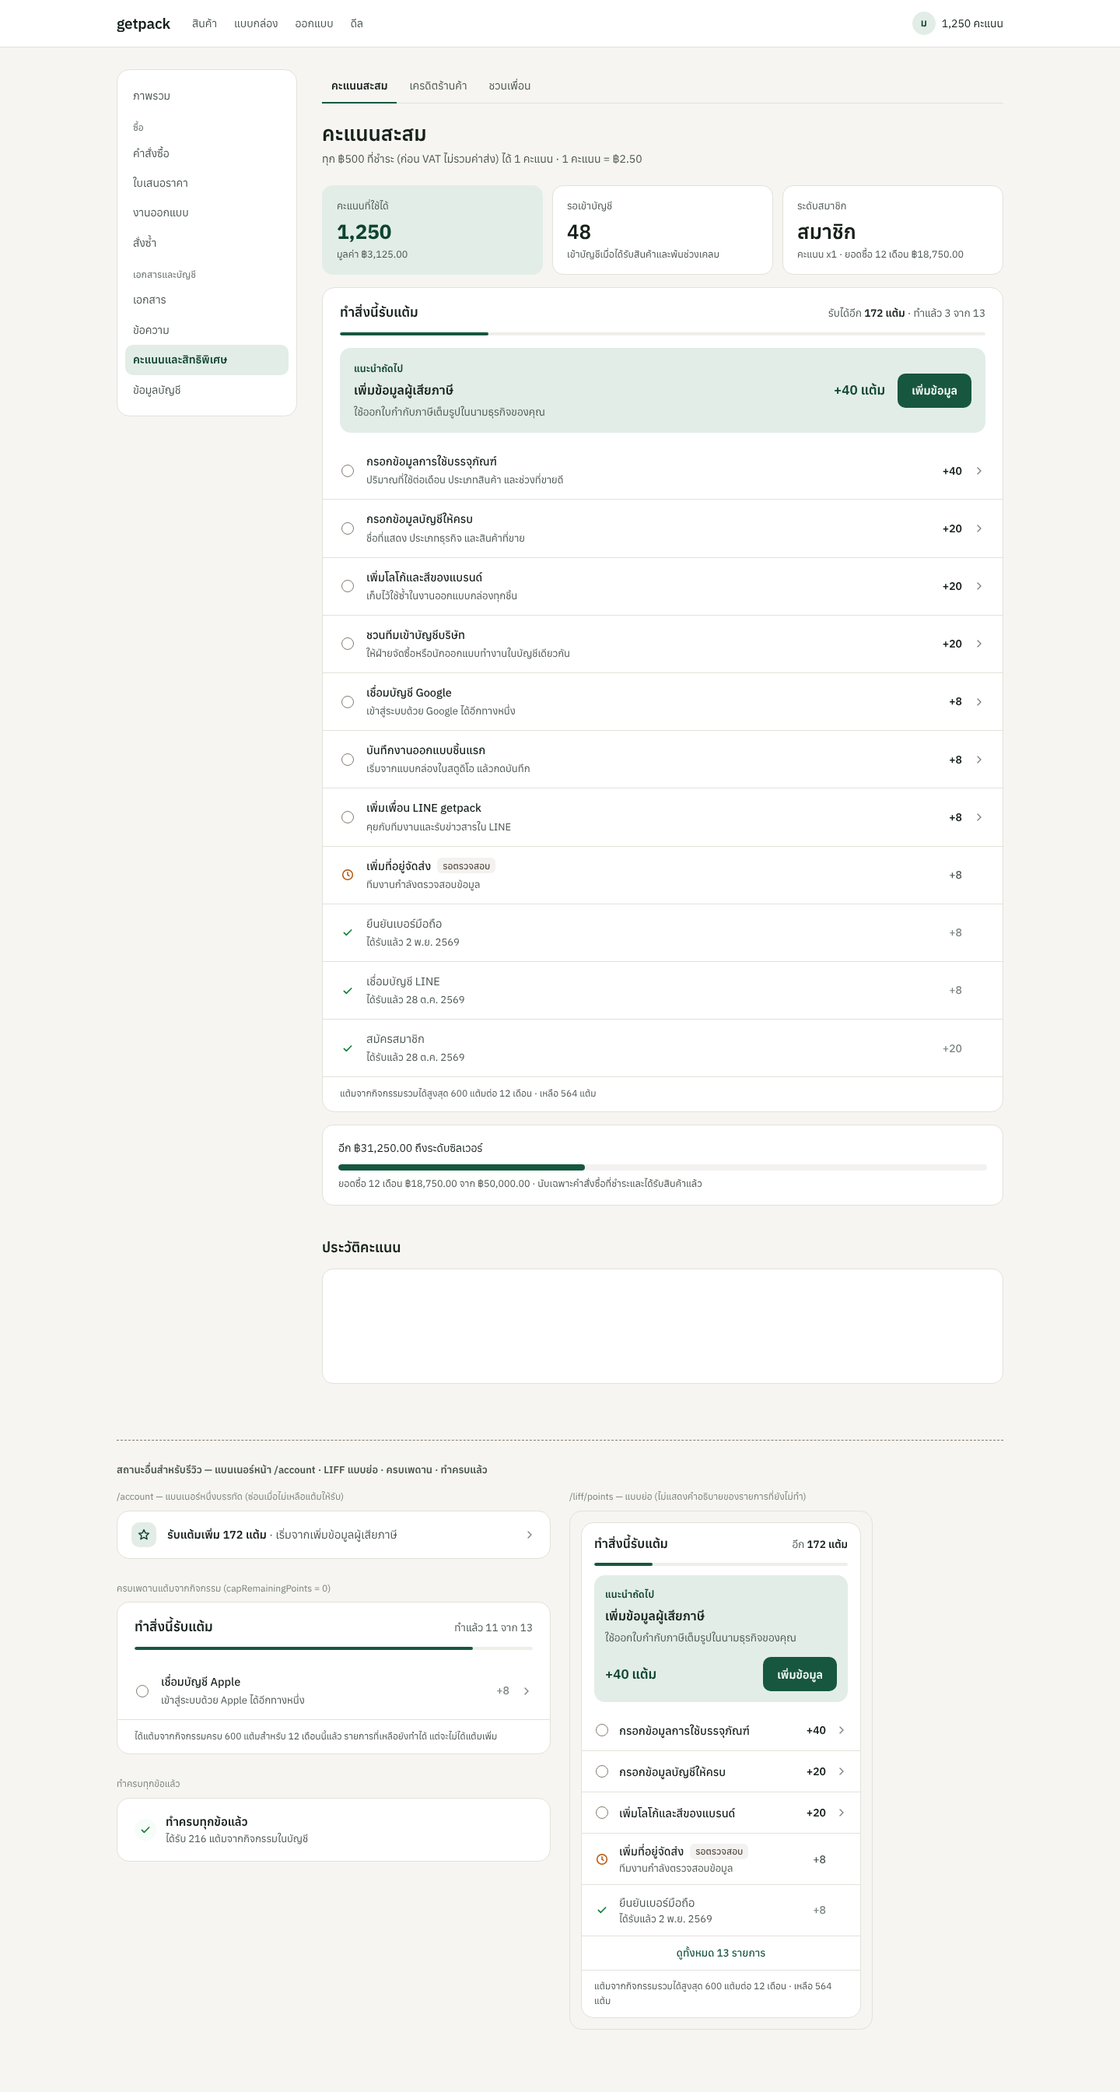
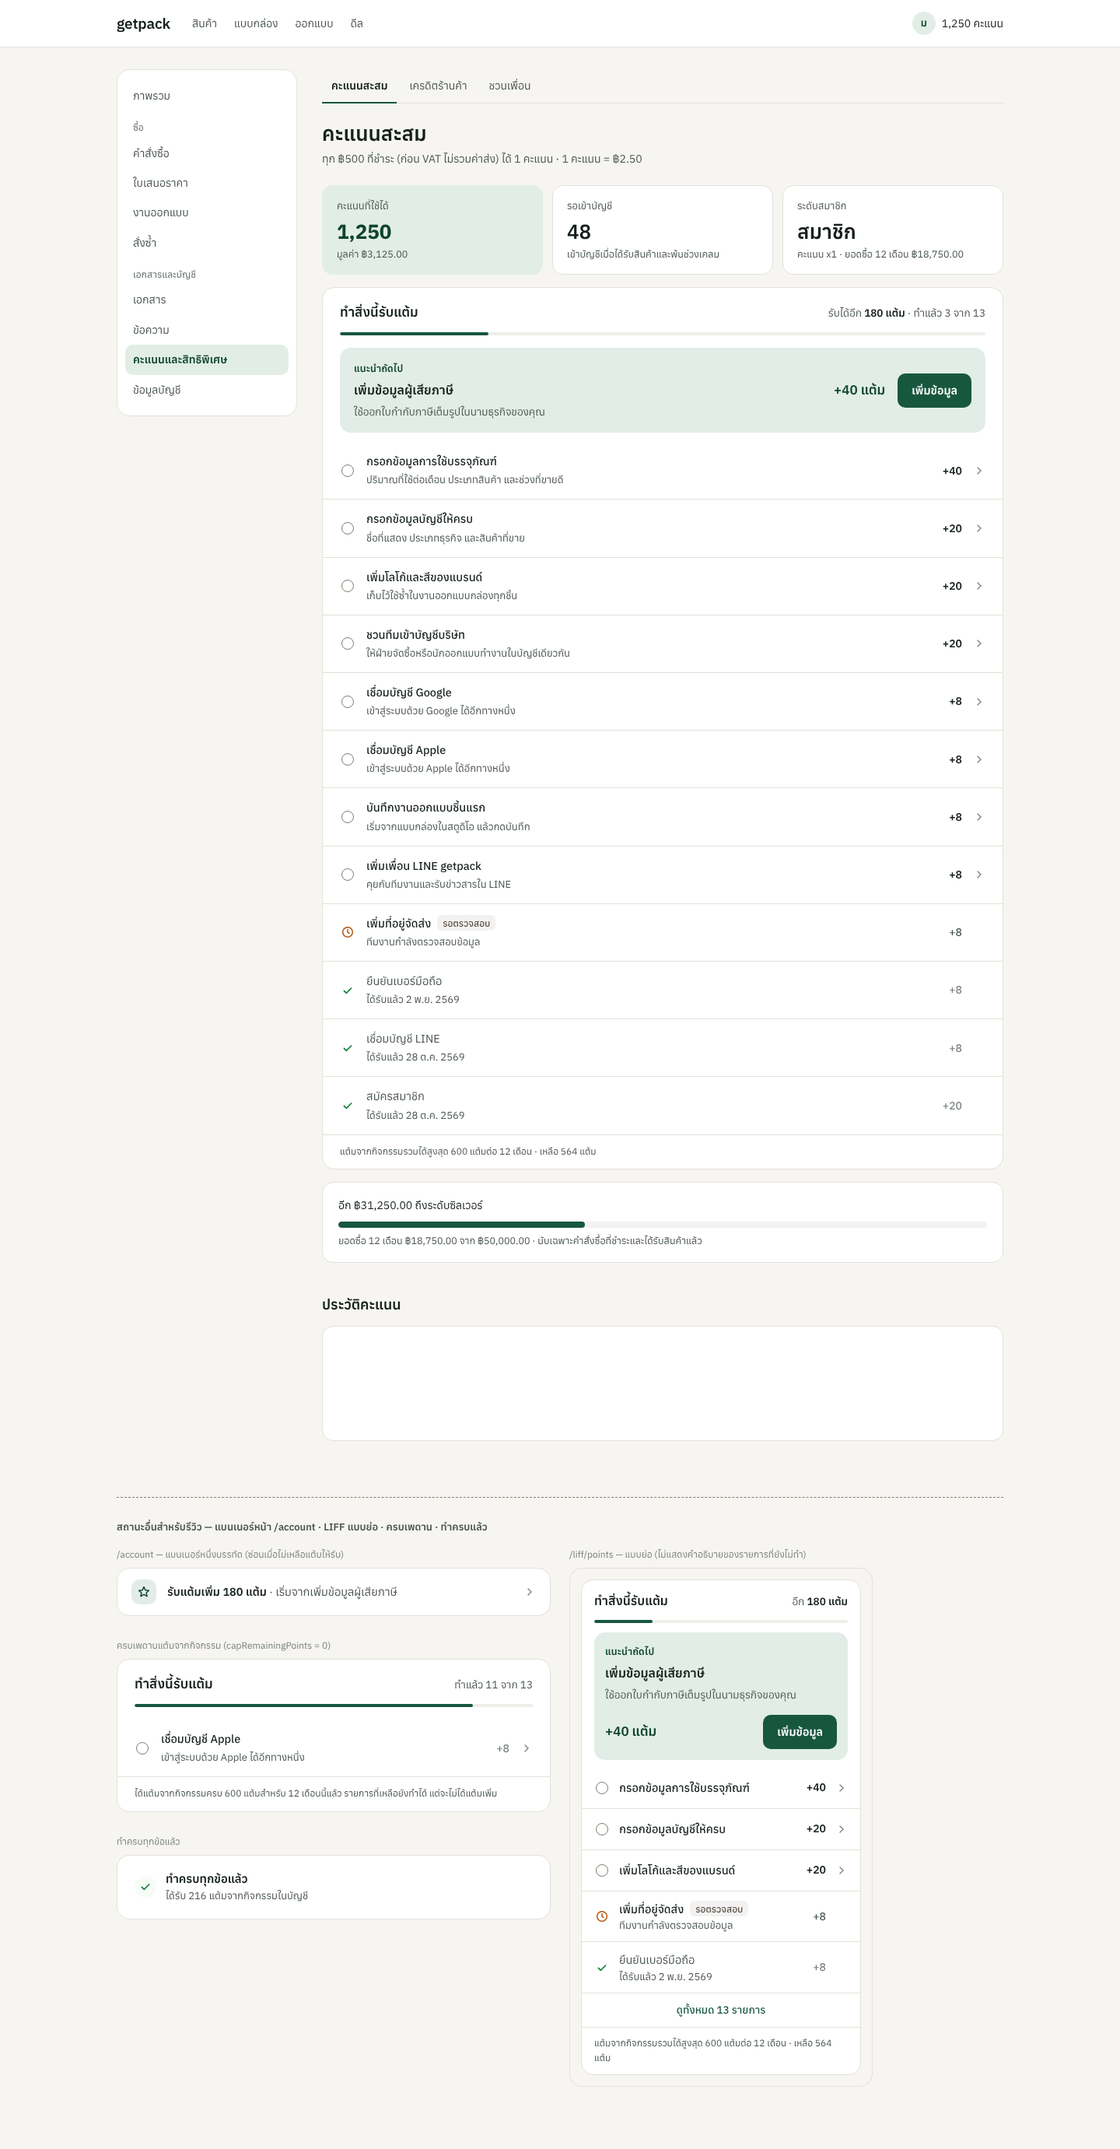
docs(loyalty): web P1 notes, routes map, gate results and progress entry
WEB-P1-NOTES.md records what was built, the task routes, contract assumptions, the gates run here and the commands for the Mac; the earn-checklist prototype gains the missing Apple row (13 tasks, 180 points).

diff --git a/docs/design/loyalty-earn-expansion/prototypes/p1-earn-checklist.html b/docs/design/loyalty-earn-expansion/prototypes/p1-earn-checklist.html
@@ -198,7 +198,7 @@ a.task:hover .chev{color:var(--fg)}
       <div class="earn-hd">
         <div class="row">
           <h2 id="earn-title">ทำสิ่งนี้รับแต้ม</h2>
-          <p class="meta num" style="margin:0">รับได้อีก <b>172 แต้ม</b> · ทำแล้ว 3 จาก 13</p>
+          <p class="meta num" style="margin:0">รับได้อีก <b>180 แต้ม</b> · ทำแล้ว 3 จาก 13</p>
         </div>
         <div class="bar" role="progressbar" aria-label="ทำแล้ว 3 จาก 13" aria-valuemin="0" aria-valuemax="13" aria-valuenow="3"><i style="width:23%"></i></div>
       </div>
@@ -238,6 +238,12 @@ a.task:hover .chev{color:var(--fg)}
         <li><a class="task" href="#">
           <span class="mark todo" aria-hidden="true"></span>
           <span><span class="t">เชื่อมบัญชี Google<span class="sr">, ยังไม่ได้ทำ</span></span><span class="d">เข้าสู่ระบบด้วย Google ได้อีกทางหนึ่ง</span></span>
+          <span class="p num">+8</span>
+          <svg class="chev" width="16" height="16" viewBox="0 0 24 24" fill="none" stroke="currentColor" stroke-width="2" stroke-linecap="round" aria-hidden="true"><path d="m9 6 6 6-6 6"/></svg>
+        </a></li>
+        <li><a class="task" href="#">
+          <span class="mark todo" aria-hidden="true"></span>
+          <span><span class="t">เชื่อมบัญชี Apple<span class="sr">, ยังไม่ได้ทำ</span></span><span class="d">เข้าสู่ระบบด้วย Apple ได้อีกทางหนึ่ง</span></span>
           <span class="p num">+8</span>
           <svg class="chev" width="16" height="16" viewBox="0 0 24 24" fill="none" stroke="currentColor" stroke-width="2" stroke-linecap="round" aria-hidden="true"><path d="m9 6 6 6-6 6"/></svg>
         </a></li>
@@ -298,7 +304,7 @@ a.task:hover .chev{color:var(--fg)}
       <p class="cap-k">/account — แบนเนอร์หนึ่งบรรทัด (ซ่อนเมื่อไม่เหลือแต้มให้รับ)</p>
       <a class="banner" href="#earn">
         <span class="ic"><svg width="18" height="18" viewBox="0 0 24 24" fill="none" stroke="currentColor" stroke-width="2" stroke-linecap="round" stroke-linejoin="round" aria-hidden="true"><path d="M12 3.5 14.6 9l5.9.6-4.4 4 1.3 5.9L12 16.5 6.6 19.5 7.9 13.6l-4.4-4L9.4 9z"/></svg></span>
-        <span class="tx"><b class="num">รับแต้มเพิ่ม 172 แต้ม</b> <span>· เริ่มจากเพิ่มข้อมูลผู้เสียภาษี</span></span>
+        <span class="tx"><b class="num">รับแต้มเพิ่ม 180 แต้ม</b> <span>· เริ่มจากเพิ่มข้อมูลผู้เสียภาษี</span></span>
         <svg class="chev" width="16" height="16" viewBox="0 0 24 24" fill="none" stroke="currentColor" stroke-width="2" stroke-linecap="round" aria-hidden="true"><path d="m9 6 6 6-6 6"/></svg>
       </a>
 
@@ -333,7 +339,7 @@ a.task:hover .chev{color:var(--fg)}
       <div class="liff">
         <section class="earn compact" style="margin-top:0" aria-label="ทำสิ่งนี้รับแต้ม (LINE)">
           <div class="earn-hd">
-            <div class="row"><h2>ทำสิ่งนี้รับแต้ม</h2><p class="meta num" style="margin:0">อีก <b>172 แต้ม</b></p></div>
+            <div class="row"><h2>ทำสิ่งนี้รับแต้ม</h2><p class="meta num" style="margin:0">อีก <b>180 แต้ม</b></p></div>
             <div class="bar"><i style="width:23%"></i></div>
           </div>
           <div class="next">

diff --git a/docs/design/loyalty-earn-expansion/WEB-P1-NOTES.md b/docs/design/loyalty-earn-expansion/WEB-P1-NOTES.md
@@ -1,0 +1,117 @@
+# Web P1 notes — earn checklist and packaging profile
+
+Branch `feat/loyalty-p1-activity-rewards` (getpack-web). Contract: `API-CHANGES-P1.md`. Design: `DESIGN-NOTES.md`,
+`prototypes/p1-*.html`, `screenshots/P1/`. Nothing pushed or merged.
+
+## 1. What was built
+
+| Piece | File |
+|---|---|
+| Contract requests (zod) for `GET /v1/store/loyalty/tasks`, `GET`/`PUT /v1/store/loyalty/packaging-profile` | `src/lib/api/requests/store-loyalty.ts` (+ registry, `awaiting-triage.ts`, rows in `docs/contract-requests.md`, `docs/contract-requests.openapi.json`) |
+| Stateful MSW (one held, three done; PUT completes `packaging_profile`) | `mocks/store/loyalty.ts`, fixtures `mocks/store/loyalty-fixtures.ts` |
+| Server reads | `getLoyaltyTasks()` (null on failure), `getPackagingProfile()` in `src/features/customer/account/api.server.ts` |
+| Task routes, display split, toast diff | `src/features/customer/account/earn-tasks.ts` |
+| `EarnChecklist` (query + toast) / `EarnChecklistView` (full, compact) | `src/features/customer/account/EarnChecklist.tsx` |
+| `/account` banner | `src/features/customer/account/EarnBanner.tsx` |
+| Packaging-profile form + rules | `PackagingProfileForm.tsx`, `packaging-profile.ts`, page `src/app/[locale]/(storefront)/account/packaging-profile/page.tsx` |
+| New `src/ui` primitive (multi-choice tiles) | `src/ui/components/CheckboxTiles.tsx` |
+| Wiring | `/account/points` (between SummaryCards and TierProgress, `#earn`), `/account` (after "ต้องทำตอนนี้"), `/liff/points` (compact, above the latest movements), new tab "การใช้บรรจุภัณฑ์" under ข้อมูลบัญชี (`sections.ts`) |
+| Copy | `account.points.earn.*`, `account.points.tasks.<code>.title/description/action`, `account.home.earnBanner*`, `account.tabs.packagingProfile`, `account.packagingProfile.*` (th + en) |
+| Stories / tests | `EarnChecklist.stories.tsx` (Held, Fresh, CapReached, AllDone, Loading, Failed, Compact, AccountBanner); `earn-tasks.test.ts`, `EarnChecklist.test.tsx`, `PackagingProfileForm.test.tsx` |
+
+### Routes map (task → page)
+
+| Code | Route | Note |
+|---|---|---|
+| `signup` | `/account` | always done in practice |
+| `line_link`, `google_link`, `apple_link` | `/account/notifications#linked-accounts` | the linked sign-in methods panel |
+| `phone_verified` | `/account/notifications#linked-accounts` | **closest page**: no separate phone-verification page; the phone identity lives in that panel |
+| `profile_completed` | `/account/addresses` | **closest page**: there is no profile-edit page (display name, business type, product category) yet |
+| `tax_profile` | `/account/addresses#book-tax` | |
+| `address` | `/account/addresses#book-addresses` | |
+| `brand_kit` | `/business/assets` | **closest page**: company brand assets; a customer without a company is redirected by `requireMember` |
+| `first_design` | `/studio/new?step=start` (`studioHref()`) | |
+| `team_invite` | `/business/members` | |
+| `packaging_profile` | `/account/packaging-profile` | new |
+| `line_oa_friend` | `https://line.me/R/ti/p/<id>` (new tab) | id = `NEXT_PUBLIC_LINE_OA_ID`, else `store.support.channels.lineOaId`; none → `/help/chat` |
+
+## 2. Contract assumptions
+
+- Built against API-CHANGES-P1 exactly; until the getpack-api release is adopted the three operations run through
+  the repo's contract-request layer (the rule in CLAUDE.md: no hand-written types beside `schema.d.ts`). After
+  `pnpm gen:api --adopt --tag <release>`, `registry.test.ts` names the three entries: delete `store-loyalty.ts`'s
+  requests and the mock, call `serverApi`/`browserApi`, keep `LoyaltyTasks`/`PackagingProfile` as `Schemas[...]`.
+- The web never re-sorts: rows are the API order minus the `recommended` task, which moves to the "แนะนำถัดไป"
+  block (not repeated in the list).
+- Held and done rows are not links and carry no chevron; only todo rows are links.
+- "ทำแล้ว n จาก m" counts `done` over all tasks returned (held is not done); the bar uses the same ratio.
+- Cap reached = `capRemainingPoints <= 0`: no next block, muted points, footer explains. `remainingPoints` drives
+  the banner (hidden at 0).
+- `points` are integers rendered with the number formatter; `pointValue` is not used by the card.
+- Realtime: `RealtimeProvider` exists, but its frames carry `{ type, id }` only (api-conventions §6) and invalidate by
+  resource, so `loyalty.points_awarded` refetches `[customer, "loyalty", …]`. The toast comes from comparing the
+  previous and new task lists (todo/held → done), deduped per page life; held entries are never toasted. The list
+  also refetches on window focus; the form drops the `loyalty` cache and calls `router.refresh()` after saving.
+  The payload's `points/taskCode` are not read (would need a provider change).
+- `GET packaging-profile` with null fields = not saved. The PDPA acknowledgement is required on every save (the
+  checkbox starts ticked when a saved profile has `purposeAccepted: true`).
+- Toast on first completion: "+{points} แต้ม — กรอกข้อมูลการใช้บรรจุภัณฑ์", using the checklist's figure for the
+  task (`rewardPoints`), only when the task is still todo and the cap is not used up; otherwise "บันทึกข้อมูลแล้ว".
+- A failed tasks read hides the checklist and the banner (the account pages' rule: a convenience read never
+  breaks a page). Loading/error states exist in the view for client refetches and Storybook.
+
+## 3. Gate results (run in the Linux VM against the Mac's `node_modules`)
+
+Native binaries in `node_modules` are darwin-only; Linux arm64 builds of rolldown and esbuild were installed
+**outside the repo** (`$HOME/linuxbind`) and pointed at with `NAPI_RS_NATIVE_LIBRARY_PATH` / `ESBUILD_BINARY_PATH`.
+
+| Gate | Result |
+|---|---|
+| `tsc --noEmit` (whole repo) | **SKIPPED** — takes > 170 s here; each call is capped at 180 s and background processes are killed between calls |
+| `tsc` on every changed file and its import graph (temporary config, 200 src files incl. `schema.d.ts`) | **PASS** (verified the config reports a planted error) |
+| ESLint on every changed file | **PASS** (one `react-hooks/purity` finding fixed) |
+| Prettier `--check` on every changed file | **PASS** |
+| Vitest: new tests (23) | **PASS** |
+| Vitest: `src/features/customer/account`, `src/lib/api`, `src/i18n` (keys used, parity, wording, hard-coded strings), `mocks`, `src/lib/realtime`, `design-language.test.ts` — 40 files / 337 tests | **PASS** |
+| `gen:api` (regenerated `contract-requests.openapi.json`) and `gen:api --check` | **PASS** |
+| `tokens:check`, `contrast` (165 pairs × 3 themes) | **PASS** |
+| Storybook build / run | **SKIPPED** — needs Vite + Tailwind's native bindings and a browser on the Mac |
+| `next build`, e2e, Lighthouse | **SKIPPED** — no Next native SWC for Linux here, no API server |
+| Visual compare of the real pages | **SKIPPED** — needs `pnpm dev:mock` on the Mac |
+
+## 4. Commands for the owner (Mac)
+
+```sh
+cd getpack-web   # on feat/loyalty-p1-activity-rewards
+pnpm install
+pnpm gen:api:check                 # contract-requests.openapi.json in sync
+pnpm typecheck && pnpm lint && pnpm test
+pnpm tokens:check && pnpm contrast
+pnpm storybook                     # Customer/Account/Earn checklist — check every story renders (Link under Vite)
+pnpm build
+pnpm dev:mock                      # MSW: one held, three done
+#   http://localhost:3000/account/points       (checklist between the figures and the tier)
+#   http://localhost:3000/account              (banner after "ต้องทำตอนนี้")
+#   http://localhost:3000/liff/points          (compact)
+#   http://localhost:3000/account/packaging-profile  (save → toast "+40 แต้ม — กรอกข้อมูลการใช้บรรจุภัณฑ์")
+pnpm e2e
+# Visual compare, prototype vs page: 1440, 1054, 390 light; 390 dark (dark follows the tokens)
+#   prototypes/p1-earn-checklist.html, prototypes/p1-packaging-profile.html  vs the pages above
+# When getpack-api publishes P1:
+pnpm gen:api --adopt --tag vX.Y.Z  # registry.test.ts then lists the three requests to retire
+```
+
+## 5. Deviations and open issues
+
+1. **"แต้ม" vs "คะแนน".** The existing points pages say "คะแนน" (title "คะแนนสะสม", balance, history); the
+   owner-approved P1 copy says "แต้ม". P1 follows the approved copy, so `/account/points` now shows both words.
+   Decide one word and swap the other namespace's strings (one pass over `account.points`, `account.home`, `liff`).
+2. **Required marker.** The form uses the repo's `Field` convention (red asterisk + sr-only "จำเป็น") rather than the
+   prototype's visible "จำเป็น" text; months are "(ไม่บังคับ)" in the label.
+3. **Volume tiles on phone** are 2 × 2 (`RadioCards columns={4}`), not the prototype's single column.
+4. **Missing pages** for `profile_completed`, `phone_verified` and `brand_kit` (for customers without a company):
+   linked to the closest pages above. A profile-edit page is needed for `profile_completed` to be doable.
+5. **Realtime toast** relies on the refetch diff, not the event payload (see §2).
+6. **Storybook** stories render `Link` from `@/i18n/navigation` under `@storybook/react-vite`; not verified here.
+   If it fails, add a `next/navigation` mock to `.storybook/preview.tsx`.
+7. No form story (the form needs `useRouter` and a query client); the form is covered by vitest.

diff --git a/docs/PROGRESS.md b/docs/PROGRESS.md
@@ -86,6 +86,7 @@ Running log maintained by the coding agent. Newest entry on top. This log starts
 | 2026-10-28 | **Stage C · C1e** — size classes in the back office, trust-section uploads (branch `design/style-size-classes`, D-450) | Style tab shows the size class and "ไม่ใช้กับการค้นหาด้วยขนาด" for not-applicable styles; bag / round dimension names; `/style-library/fit-ranges` coverage stat, not-applicable list, cleared / classified changes; content editor `ContentImageField` / `ContentDocumentField` (upload, or https link for documents); storefront opens uploaded documents / logos via the BFF; quick view ⌀ × height for round styles; mocks follow the rule. | admin e2e (admin.localhost); `pnpm build` | A picture link typed before C1e is shown with a warning and must be replaced by an upload before saving; PDF uploads use purpose `document`, pictures `image`. |
 | 2026-10-28 | **Stage C · C3 — product page Phase 1** (branch `design/pdp-redesign`, web only) | `/products/[slug]` redesigned: breadcrumb, sticky gallery (photos / dieline + "ขนาดจริง"), live buy box bound to the configurator state (size, board, outside print, tiers; useLivePrice + batch prices; configure link via `queryOf`, save quote, dieline for the chosen size, ask; assurances from the calculation), phone buy bar, section bar, sizes table (outside size from convert-dimensions), tiers + อ่านราคาอย่างไร, materials + print notes, design paths, the configurator's steps, FAQ content + JSON-LD, related products; pdp_* analytics. Configurator reads `print=`; `withStandardSize`, `print-family.ts` shared. No API change. | e2e `storefront-pdp` (written, not run); `pnpm build`; reviews (Phase 2) | Print notes, FAQ and design-path copy are content for business review (`catalog.pdp.*`); outside sizes are the API conversion with the chosen board; the tier bar length is `100 − savingPercent` (no money arithmetic); "หาเบอร์จากขนาดสินค้า" left out. |
 | 2026-10-28 | **CI repair after Stage C** (branch `fix/ci-green`) | CI on `main` red since 2026-10-27 (run 40672005908: 7 jobs). Prettier on 19 files (it stopped the verify job before lint/typecheck/tests ran) + the lint directive it displaced in `Configurator.tsx`. Specs written in Stage C and never run, aligned with the shipped UI: file access log (Radix select, folded "ระบบ" group, sign out between personas), superadmin threshold (the mock's only policy is pending; spec clears it), PDP (size radio, dock landmark, read the price once settled), guarantee link "การรับประกันงาน", checkout (serial: 8 tests had never run — order code from the pay page, tax switch `check()`), tray tests with `FEATURE_RFQ_PRODUCT_REF=1` in the e2e mock env. a11y in code: PDP buy box and tiers `aria-busy` while pricing; size chart scroll region focusable; axe waits for `aria-busy` to clear. Journeys: T1/T5 list the required material (pre-chosen), T6 on the one-page configurator, T7 "กำหนดส่ง". PDP CLS 0.22 → price area reserves 7rem (the D-441 spec line outgrew 4.75rem). Lighthouse ratchets restated (docs/performance-budgets.md). 23 Linux visual baselines from CI's own actuals. | Bundle growth on the PDP (+22 KB) and configurator (+25 KB) to work down | Local: lint, typecheck, unit 1651 + dieline, styles check, build; e2e (mock, fresh server) for the 7 affected spec files and all 12 journeys with `STEP_BUDGETS=enforce` green. Ratchets raised by owner decision (2026-10-28). |
+| 2026-11-04 | **Loyalty P1 — web** (branch `feat/loyalty-p1-activity-rewards`) | Earn checklist on `/account/points` (+ compact on `/liff/points`), `/account` banner, `/account/packaging-profile` with PDPA acknowledgement; contract requests `store.loyalty.tasks` / `store.loyalty.packaging-profile` per API-CHANGES-P1 with MSW; th/en; stories and vitest | Full `tsc`, Storybook, build, e2e and visual compare on the owner's Mac | Routes for profile, phone and brand kit go to the closest pages; "แต้ม" (approved P1 copy) vs "คะแนน" (existing pages) left for the owner — see `docs/design/loyalty-earn-expansion/WEB-P1-NOTES.md` |
 ---
 
 ## Admin completion, in rounds (D-411) — 2026-10-15

diff --git a/docs/design/loyalty-earn-expansion/DESIGN-NOTES.md b/docs/design/loyalty-earn-expansion/DESIGN-NOTES.md
@@ -67,7 +67,7 @@ prototypes), weights 400/500/600 (700 only for the balance figure that already e
 | `heading-hierarchy` | Card title is an `h2` under the page `h1`; form groups are `fieldset/legend`. |
 | `input-labels`, `field-grouping` | Every tile is a `<label>`; groups are fieldsets with legends. |
 | `error-placement`, `aria-live-errors`, `focus-management` | Error under each group, linked with `aria-describedby`, `role="alert"`; the first invalid group gets focus (`useFocusFirstInvalid`). |
-| `required-indicators` | "จำเป็น" text next to the legend, not only an asterisk. |
+| `required-indicators` | The repo's `Field` marker: asterisk plus sr-only "จำเป็น"; optional groups say "(ไม่บังคับ)". (The prototype shows the word; the build follows `Field`.) |
 | `submit-feedback`, `loading-buttons` | Save button shows loading and is disabled while saving; toast on success. |
 | `toast-accessibility`, `toast-dismiss` | Sonner, polite, 5 s (`TOAST_DURATION_MS`). |
 | `contextual-live-badge-updates` | The checklist refetch does not move focus; the toast is the announcement. |
